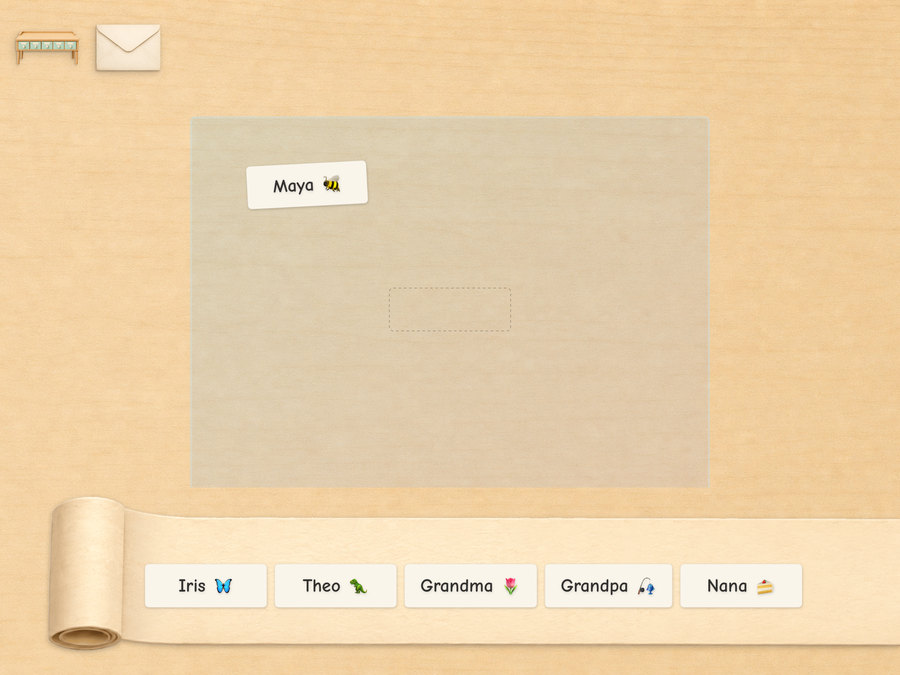
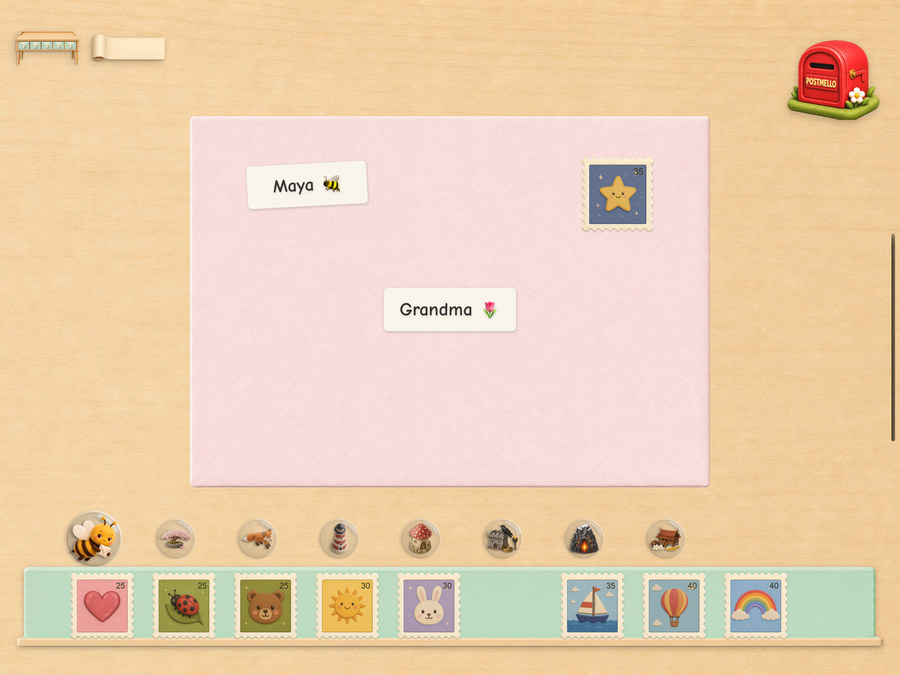
Grandma writes back
A new section between the collections and the editorial: a letter can go
to someone who is not on Postmello - a contact that is just an email
address - and her plain-email reply comes back to the desk as a
typewritten letter. Three beats, all live product; the closer states the
absences (no app for her, and photos and links can't ride along).

The hero and the stamp step are re-shot from the same desk: the mailbox
mail is now addressed to Maya with the sender's label on it, the draft
piles wear Starter papers with the wildflower meadow on top, and the
capture is full-screen - the old shots had iPadOS window chrome baked
into a corner. The stamp step's tray also shows the bee again on the
Starter coin (its catalog mark was missing; fixed app-side and in the
catalog).

diff --git a/index.html b/index.html
@@ -18,7 +18,7 @@
   <link rel="preconnect" href="https://fonts.googleapis.com" />
   <link rel="preconnect" href="https://fonts.gstatic.com" crossorigin />
   <link rel="stylesheet" href="https://fonts.googleapis.com/css2?family=DM+Mono:wght@500&amp;family=Nunito:wght@400..800&amp;family=Rubik:wght@600&amp;display=swap" />
-  <link rel="stylesheet" href="styles.css?v=5c3d962e" />
+  <link rel="stylesheet" href="styles.css?v=83f35691" />
 </head>
 <body>
   <header class="site-head site-head--wide">
@@ -216,7 +216,7 @@
           <figcaption>Make it yours.</figcaption>
         </figure>
         <figure>
-          <img src="assets/step-stamp.jpg" alt="An envelope on the desk carrying a From sticker, with a roll of address labels - Iris, Theo, Grandma, Grandpa, Nana - waiting below" width="900" height="675" loading="lazy" />
+          <img src="assets/step-stamp.jpg" alt="A blush envelope addressed to Grandma - Maya's From sticker, Grandma's address sticker and a star stamp - above the stamp tray, with the red Postmello send box waiting" width="900" height="675" loading="lazy" />
           <figcaption>Stamp it and send.</figcaption>
         </figure>
       </div>
@@ -475,6 +475,63 @@
            something the six desk pictures further up demonstrate, so saying
            it was belt over braces. -->
       <p class="stationery-caption">Fairy Glen</p>
+    </section>
+
+    <!-- The one feature section with a story instead of a claim: a letter can
+         go to someone who is not on Postmello, and that person can write back
+         from their own inbox. It reads as three beats because the mechanism
+         IS three beats - write, it lands in her email, she hits Reply - and
+         a fourth sentence would start explaining infrastructure.
+
+         Grandma is not a new character: she has been on the drawer row and
+         the address roll since the first capture, and the editorial below
+         already speaks of "the grandparent writing back". The section just
+         lets her finish the round trip.
+
+         Everything shown is live product, nothing sold forward: email
+         contacts, the envelope-in-an-email, replying by plain email, replies
+         arriving as typewritten letters. "Photos and links can't ride along"
+         is quoted from the letter email itself - the closer states the
+         absence, per the pillars' own rule, because the absence (no app to
+         install, no account to make, nothing a reply can smuggle in) is the
+         feature.
+
+         Placed AFTER the desks and stationery, not after the steps (Patrick,
+         2026-08-21): the desks and collections are the stronger sell and keep
+         their run unbroken; this lands as the last product beat before the
+         editorial, whose reply-on-top teaser it sets up. The middle and right
+         panels are baked stills rendered from the letter email's real layout;
+         the left is an app capture from the same desk as the hero. -->
+    <section class="feature" id="beyond">
+      <div class="feature-head">
+        <h2><span>Grandma doesn&rsquo;t need Postmello.</span></h2>
+        <p class="lede">A contact can be just an email address. The letter
+           arrives in her inbox - and her reply comes back to the desk as a
+           letter.</p>
+      </div>
+      <div class="steps">
+        <figure>
+          <img src="assets/beyond-write.jpg" alt="A blush envelope on Maya's desk - her From sticker, Grandma's address sticker and a star stamp" width="900" height="675" loading="lazy" />
+          <figcaption>Maya writes to Grandma.</figcaption>
+          <p class="sub">Paper, ink, a stamp. Grandma&rsquo;s sticker comes
+             off the roll, same as everyone else&rsquo;s.</p>
+        </figure>
+        <figure>
+          <img src="assets/beyond-inbox.jpg" alt="Grandma's email - the envelope from Maya, and a button to open the letter" width="900" height="675" loading="lazy" />
+          <figcaption>The letter finds her inbox.</figcaption>
+          <p class="sub">She opens the envelope right in her email. No app,
+             no account, no password.</p>
+        </figure>
+        <figure>
+          <img src="assets/beyond-reply.jpg" alt="Grandma's emailed reply, arriving on Maya's desk as a typewritten letter" width="900" height="675" loading="lazy" />
+          <figcaption>She simply hits Reply.</figcaption>
+          <p class="sub">Her words arrive on Maya&rsquo;s desk as a
+             typewritten letter.</p>
+        </figure>
+      </div>
+      <p class="beyond-closer">Only people you approve can be written to -
+         and replies arrive as typewritten letters, so photos and links
+         can&rsquo;t ride along.</p>
     </section>
 
     <section class="feature editorial-section" id="why">

diff --git a/styles.css b/styles.css
@@ -394,6 +394,32 @@ a:hover { text-decoration-color: var(--navy); }
   font-weight: 700;
   letter-spacing: -0.018em;
 }
+/* The Grandma section's panels each carry ONE sentence under the label —
+   the only step row that needs it, because its beats are a story rather
+   than an instruction ("Choose your paper." explains itself; "She simply
+   hits Reply." needs its consequence said). Soft ink, capped measure:
+   these are the footnote the figcaption rule above refuses to be. */
+.steps .sub {
+  margin: 6px auto 0;
+  max-width: 34ch;
+  text-align: center;
+  color: var(--ink-soft);
+  font-size: var(--fs-small);
+  line-height: 1.5;
+  text-wrap: pretty;
+}
+/* One line under the row, not a fourth panel: the approval rule and the
+   typewritten-reply rule stated once, together — the section's whole trust
+   story. States the ABSENCE (photos and links can't ride along), per the
+   pillars' rule. */
+.beyond-closer {
+  max-width: 62ch;
+  margin: var(--s-5) auto 0;
+  text-align: center;
+  color: var(--ink-soft);
+  font-size: var(--fs-body);
+  text-wrap: pretty;
+}
 
 /* ---------- Feature bands ---------- */
 /* Three sections of equal weight, each: a big heading, one line of lede, and

diff --git a/blog/designing-a-desk-not-an-app/index.html b/blog/designing-a-desk-not-an-app/index.html
@@ -18,7 +18,7 @@
   <link rel="preconnect" href="https://fonts.googleapis.com" />
   <link rel="preconnect" href="https://fonts.gstatic.com" crossorigin />
   <link rel="stylesheet" href="https://fonts.googleapis.com/css2?family=DM+Mono:wght@500&amp;family=Nunito:wght@400..800&amp;family=Rubik:wght@600&amp;display=swap" />
-  <link rel="stylesheet" href="../../styles.css?v=5c3d962e" />
+  <link rel="stylesheet" href="../../styles.css?v=83f35691" />
 </head>
 <!-- The prose is Patrick's, verbatim. The markdown he wrote is kept beside this
      file as index.md — that is the source, this is the rendering. Edit the .md,

diff --git a/blog/why-i-built-postmello/index.html b/blog/why-i-built-postmello/index.html
@@ -18,7 +18,7 @@
   <link rel="preconnect" href="https://fonts.googleapis.com" />
   <link rel="preconnect" href="https://fonts.gstatic.com" crossorigin />
   <link rel="stylesheet" href="https://fonts.googleapis.com/css2?family=DM+Mono:wght@500&amp;family=Nunito:wght@400..800&amp;family=Rubik:wght@600&amp;display=swap" />
-  <link rel="stylesheet" href="../../styles.css?v=5c3d962e" />
+  <link rel="stylesheet" href="../../styles.css?v=83f35691" />
 </head>
 <!-- The prose is Patrick's, verbatim. The markdown he wrote is kept beside
      this file as index.md — that is the source, this is the rendering. Edit

diff --git a/safety.html b/safety.html
@@ -18,7 +18,7 @@
   <link rel="preconnect" href="https://fonts.googleapis.com" />
   <link rel="preconnect" href="https://fonts.gstatic.com" crossorigin />
   <link rel="stylesheet" href="https://fonts.googleapis.com/css2?family=DM+Mono:wght@500&amp;family=Nunito:wght@400..800&amp;family=Rubik:wght@600&amp;display=swap" />
-  <link rel="stylesheet" href="styles.css?v=5c3d962e" />
+  <link rel="stylesheet" href="styles.css?v=83f35691" />
 </head>
 <!-- The page a parent looks for after deciding they like the pictures: "okay,
      but how does this actually work for kids?" It exists so that question does

diff --git a/404.html b/404.html
@@ -11,7 +11,7 @@
   <link rel="preconnect" href="https://fonts.googleapis.com" />
   <link rel="preconnect" href="https://fonts.gstatic.com" crossorigin />
   <link rel="stylesheet" href="https://fonts.googleapis.com/css2?family=DM+Mono:wght@500&amp;family=Nunito:wght@400..800&amp;family=Rubik:wght@600&amp;display=swap" />
-  <link rel="stylesheet" href="/styles.css?v=5c3d962e" />
+  <link rel="stylesheet" href="/styles.css?v=83f35691" />
 </head>
 <!-- GitHub Pages serves this file for ANY unmatched path, at any depth, so
      every link and asset reference here must be root-absolute. A relative

diff --git a/blog/index.html b/blog/index.html
@@ -18,7 +18,7 @@
   <link rel="preconnect" href="https://fonts.googleapis.com" />
   <link rel="preconnect" href="https://fonts.gstatic.com" crossorigin />
   <link rel="stylesheet" href="https://fonts.googleapis.com/css2?family=DM+Mono:wght@500&amp;family=Nunito:wght@400..800&amp;family=Rubik:wght@600&amp;display=swap" />
-  <link rel="stylesheet" href="../styles.css?v=5c3d962e" />
+  <link rel="stylesheet" href="../styles.css?v=83f35691" />
 </head>
 <body>
   <header class="site-head">

diff --git a/privacy.html b/privacy.html
@@ -18,7 +18,7 @@
   <link rel="preconnect" href="https://fonts.googleapis.com" />
   <link rel="preconnect" href="https://fonts.gstatic.com" crossorigin />
   <link rel="stylesheet" href="https://fonts.googleapis.com/css2?family=DM+Mono:wght@500&amp;family=Nunito:wght@400..800&amp;family=Rubik:wght@600&amp;display=swap" />
-  <link rel="stylesheet" href="styles.css?v=5c3d962e" />
+  <link rel="stylesheet" href="styles.css?v=83f35691" />
 </head>
 <body>
   <header class="site-head">

diff --git a/support.html b/support.html
@@ -18,7 +18,7 @@
   <link rel="preconnect" href="https://fonts.googleapis.com" />
   <link rel="preconnect" href="https://fonts.gstatic.com" crossorigin />
   <link rel="stylesheet" href="https://fonts.googleapis.com/css2?family=DM+Mono:wght@500&amp;family=Nunito:wght@400..800&amp;family=Rubik:wght@600&amp;display=swap" />
-  <link rel="stylesheet" href="styles.css?v=5c3d962e" />
+  <link rel="stylesheet" href="styles.css?v=83f35691" />
 </head>
 <body>
   <header class="site-head">

diff --git a/terms.html b/terms.html
@@ -18,7 +18,7 @@
   <link rel="preconnect" href="https://fonts.googleapis.com" />
   <link rel="preconnect" href="https://fonts.gstatic.com" crossorigin />
   <link rel="stylesheet" href="https://fonts.googleapis.com/css2?family=DM+Mono:wght@500&amp;family=Nunito:wght@400..800&amp;family=Rubik:wght@600&amp;display=swap" />
-  <link rel="stylesheet" href="styles.css?v=5c3d962e" />
+  <link rel="stylesheet" href="styles.css?v=83f35691" />
 </head>
 <body>
   <header class="site-head">
